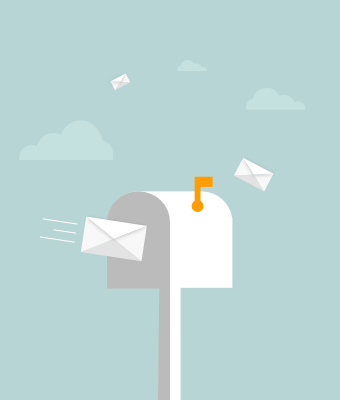
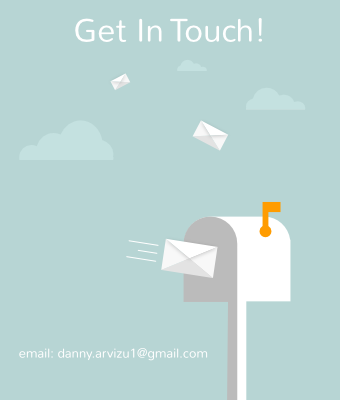
Added contact info to contact.png

diff --git a/styles/main.css b/styles/main.css
@@ -438,9 +438,9 @@ CONTACT FORM PAGE
     left: 50%;
     transform: translate(-50%, -50%);
     background-color: #0b2545;
-    -webkit-box-shadow: 0px 0px 10px 1px rgba(0, 0, 0, 0.75);
-    -moz-box-shadow: 0px 0px 10px 1px rgba(0, 0, 0, 0.75);
-    box-shadow: 0px 0px 10px 1px rgba(0, 0, 0, 0.75); }
+    -webkit-box-shadow: 0px 0px 10px 1px rgba(0, 0, 0, 0.4);
+    -moz-box-shadow: 0px 0px 10px 1px rgba(0, 0, 0, 0.4);
+    box-shadow: 0px 0px 10px 1px rgba(0, 0, 0, 0.4); }
     .contactFormContainer .contactForm #imgContainer, .contactFormContainer .contactForm #formContainer {
       height: 500px; }
     .contactFormContainer .contactForm #imgContainer {
@@ -453,13 +453,9 @@ CONTACT FORM PAGE
         position: relative;
         left: -80px;
         margin-top: 50px;
-        -webkit-box-shadow: 0px 0px 10px 1px rgba(0, 0, 0, 0.75);
-        -moz-box-shadow: 0px 0px 10px 1px rgba(0, 0, 0, 0.75);
-        box-shadow: 0px 0px 10px 1px rgba(0, 0, 0, 0.75); }
-        .contactFormContainer .contactForm #imgContainer #infoCard h2 {
-          padding: 10px 0;
-          font-size: 30px;
-          color: white; }
+        -webkit-box-shadow: 0px 0px 10px 1px rgba(0, 0, 0, 0.4);
+        -moz-box-shadow: 0px 0px 10px 1px rgba(0, 0, 0, 0.4);
+        box-shadow: 0px 0px 10px 1px rgba(0, 0, 0, 0.4); }
     .contactFormContainer .contactForm #formContainer {
       color: white; }
       .contactFormContainer .contactForm #formContainer form {

diff --git a/styles/main.scss b/styles/main.scss
@@ -574,9 +574,9 @@ CONTACT FORM PAGE
     left: 50%;
     transform: translate(-50%, -50%);
     background-color: $secondary;
-    -webkit-box-shadow: 0px 0px 10px 1px rgba(0,0,0,0.75);
-    -moz-box-shadow: 0px 0px 10px 1px rgba(0,0,0,0.75);
-    box-shadow: 0px 0px 10px 1px rgba(0,0,0,0.75);
+    -webkit-box-shadow: 0px 0px 10px 1px rgba(0,0,0,0.4);
+    -moz-box-shadow: 0px 0px 10px 1px rgba(0,0,0,0.4);
+    box-shadow: 0px 0px 10px 1px rgba(0,0,0,0.4);
     #imgContainer, #formContainer{
       height: 500px;
     }
@@ -590,14 +590,9 @@ CONTACT FORM PAGE
         position: relative;
         left: -80px;
         margin-top: 50px;
-        -webkit-box-shadow: 0px 0px 10px 1px rgba(0,0,0,0.75);
-        -moz-box-shadow: 0px 0px 10px 1px rgba(0,0,0,0.75);
-        box-shadow: 0px 0px 10px 1px rgba(0,0,0,0.75);
-        h2{
-          padding: 10px 0;
-          font-size: 30px;
-          color: white;
-        }
+        -webkit-box-shadow: 0px 0px 10px 1px rgba(0,0,0,0.4);
+        -moz-box-shadow: 0px 0px 10px 1px rgba(0,0,0,0.4);
+        box-shadow: 0px 0px 10px 1px rgba(0,0,0,0.4);
 
       }
     }

diff --git a/contact.html b/contact.html
@@ -39,7 +39,7 @@
     <div class="contactForm">
       <div class="col-sm-5" id="imgContainer">
         <div id="infoCard">
-          <h2 class="text-center">Get In Touch!</h2>
+          <!-- <h2 class="text-center">Get In Touch!</h2> -->
         </div>
       </div>
       <div class="col-sm-7" id="formContainer">
